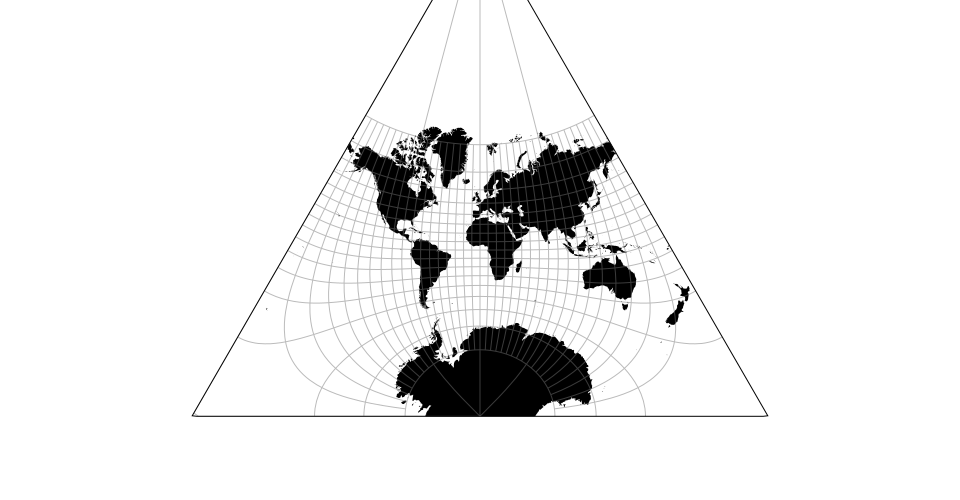
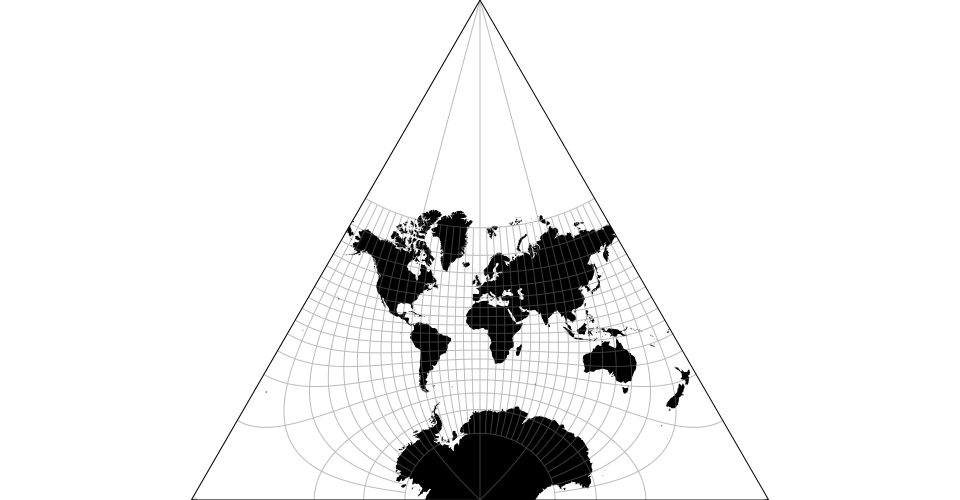
test/compute-scale fails on cox

diff --git a/src/cox.js b/src/cox.js
@@ -113,7 +113,8 @@ export default function() {
   };
 
   return p
-    .scale(188.305)
-    .center([0, 0]);
+    .scale(188.682)
+    .center([0, 0])
+    .translate([ 480, 500 * 2 /3 ]);
 }
 
